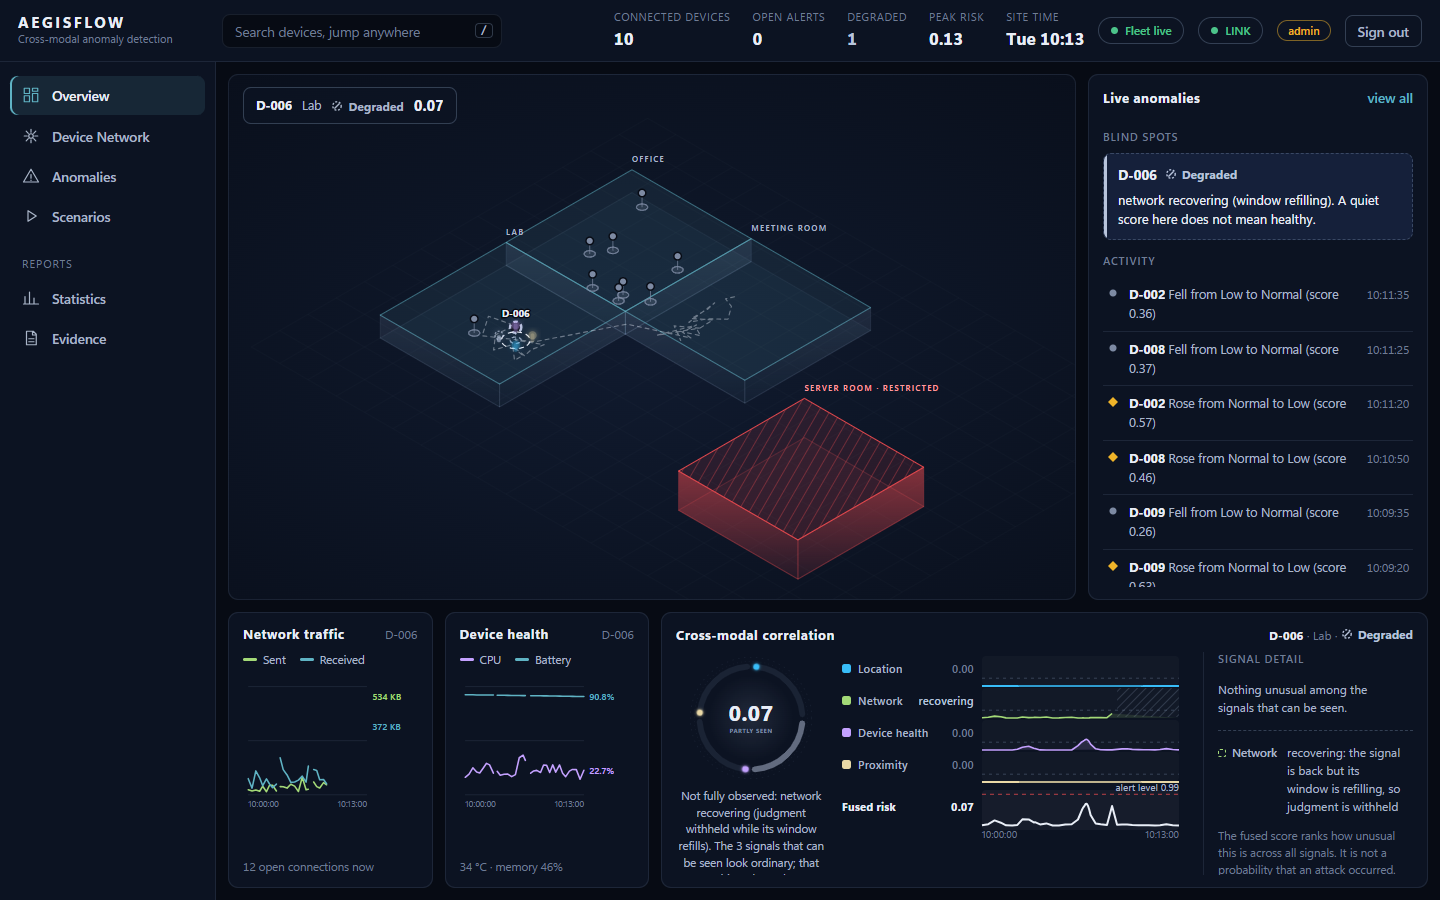
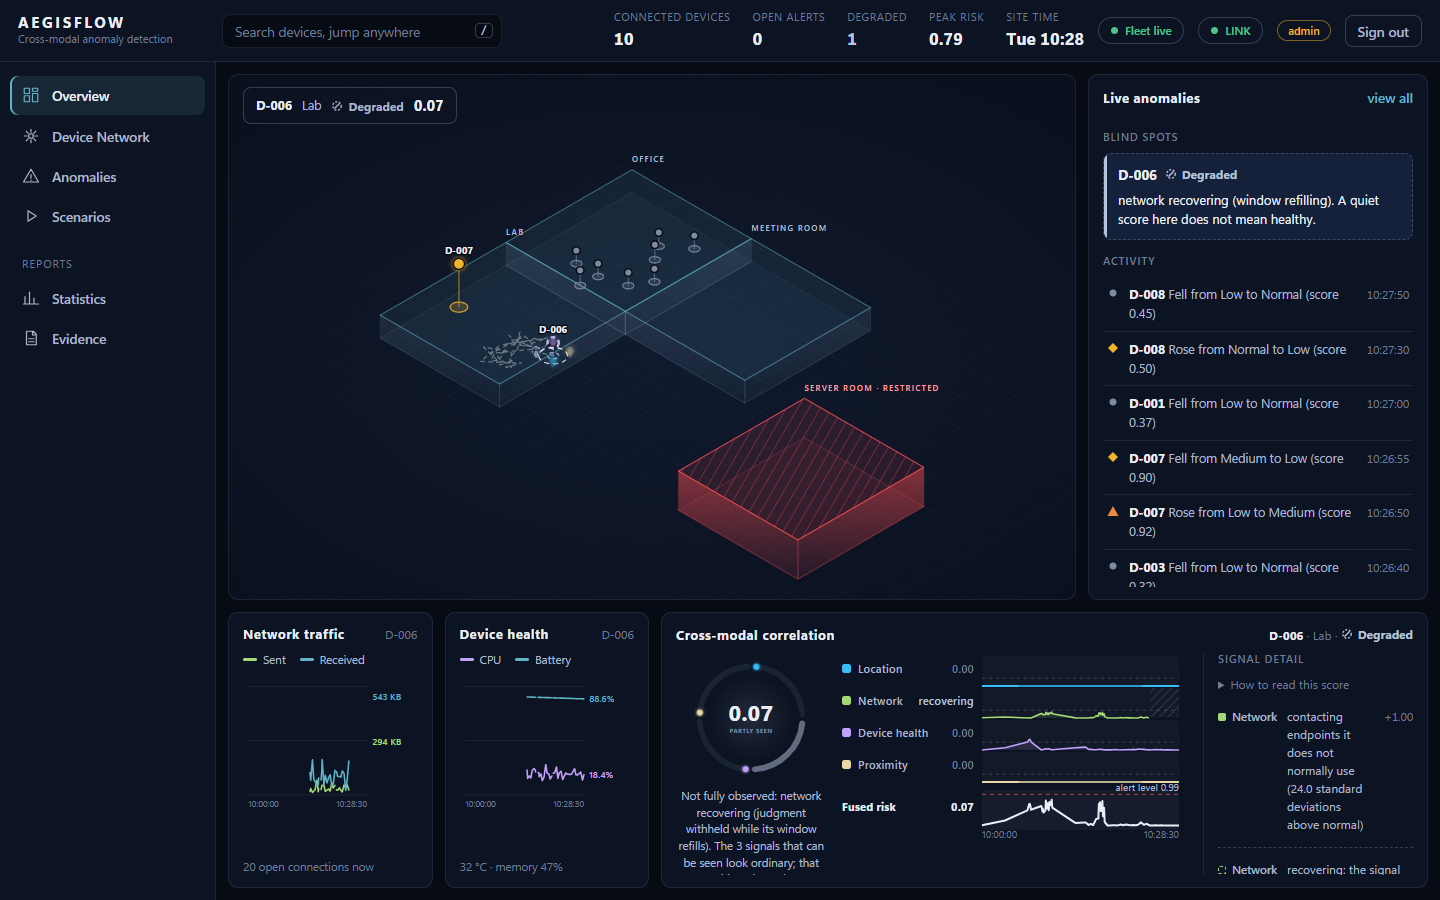
UI clarity: ring and sentence agree with the severity band, a collapsible guide to the score and alert open/close rules, alert detail leads with what it rests on and collapses repeated text; demo story waits for a Normal device; screenshots regenerated

diff --git a/frontend/src/components/Panels.tsx b/frontend/src/components/Panels.tsx
@@ -13,18 +13,42 @@ export function focusDevice(devices: Record<string, Snapshot>, selected: string 
 }
 
 /** Plain-language account of how the signals combine right now. Pure, so it can be tested. */
-export function correlationSentence(snap: Snapshot): string {
+/** How to read the score: what it is, what the labels mean, and when an alert opens and closes. Bands follow the alert thresholds (fully observed device). */
+export function ScoreGuide({ status }: { status?: Status | null }) {
+  const raise = status?.alert_thresholds.raise_at
+  const clear = status?.alert_thresholds.clear_at
+  return (
+    <details className="score-guide">
+      <summary>How to read this score</summary>
+      <ul>
+        <li><b>The score</b> is this device's fused risk right now, recomputed with every 5-second update. Each signal's own score is held and fades with a one-second half-life, so a brief spike is not missed. It is a ranking on a learned, saturating scale, not a probability: 0.75 is not "three quarters of the way" to an alert.</li>
+        {raise !== undefined && clear !== undefined && (
+          <li><b>Labels</b> follow the alert thresholds: Low from {(0.5 * clear).toFixed(2)}, Medium from {clear.toFixed(2)} (the clear level), High from {raise.toFixed(2)} (the alert level). They shift slightly when a device is partly observed.</li>
+        )}
+        <li><b>An alert opens</b> when the fused score reaches the alert level and the device has finished learning its normal. <b>It closes</b> only after the score has stayed below the clear level for 60 seconds, so a dip does not end it and a device can fall from High to Normal while the alert is still open.</li>
+        <li><b>Degraded</b> means some signals cannot be seen; a quiet score then says nothing about them.</li>
+      </ul>
+    </details>
+  )
+}
+
+export function correlationSentence(snap: Snapshot, alertLevel?: number): string {
   const lost = lostSignals(snap)
   const seen = MODALITIES.filter((m) => !lost.includes(m))
   const active = seen.filter((m) => snap.effective[m] >= ACTIVE_LEVEL).sort((a, b) => snap.effective[b] - snap.effective[a])
   const strongest = Math.max(0, ...seen.map((m) => snap.effective[m]))
+  // The fused score is learned and saturating: weak signals that are each below the active level can still add up to a non-normal band.
+  // Say so, instead of calling the device normal while its risk label is not.
+  const band = snap.severity !== 'normal'
+    ? `the fused risk is ${snap.score.toFixed(2)}: ${SEVERITY_LABEL[snap.severity]} band${alertLevel !== undefined ? `, alert level ${alertLevel.toFixed(2)}` : ''}.`
+    : ''
   // A missing signal is never reported as a normal one: say what cannot be seen.
   const blind = lost.length ? `Not fully observed: ${lostText(snap)} ${(snap.recovering ?? []).length === lost.length ? 'recovering (judgment withheld while its window refills)' : 'unavailable'}. ` : ''
   if (seen.length === 0) return 'No signal is available: this device cannot be judged.'
   if (active.length === 0) {
     return lost.length
-      ? `${blind}The ${seen.length} signal${seen.length === 1 ? '' : 's'} that can be seen look ordinary; that says nothing about the ones that cannot.`
-      : 'All four signals are within their normal range.'
+      ? `${blind}The ${seen.length} signal${seen.length === 1 ? '' : 's'} that can be seen look ordinary; that says nothing about the ones that cannot.${band ? ` Together ${band}` : ''}`
+      : band ? `No single signal is active (${ACTIVE_LEVEL.toFixed(2)}+), yet together ${band}` : 'All four signals are within their normal range.'
   }
   const list = active.map((m) => `${MODALITY_LABEL[m]} ${snap.effective[m].toFixed(2)}`).join(', ')
   if (active.length === 1) return `${blind}One signal is active: ${list}.`
@@ -167,7 +191,7 @@ export function CorrelationPanel({ snap, history, alerts, status }: {
       <div className="corr-body">
         <div className="corr-ring">
           <SignalRing effective={snap.effective} score={snap.score} severity={snap.severity} size={132} lost={lostSignals(snap)} />
-          <p className="corr-note">{correlationSentence(snap)}</p>
+          <p className="corr-note">{correlationSentence(snap, status?.alert_thresholds.raise_at)}</p>
         </div>
         <div className="corr-main">
           <CorrelationLanes
@@ -178,6 +202,7 @@ export function CorrelationPanel({ snap, history, alerts, status }: {
         </div>
         <div className="corr-why" aria-label="Why it was flagged">
           <h3>{alert && alert.status !== 'closed' ? 'Why it was flagged' : n >= 2 ? 'Why the risk is rising' : 'Signal detail'}</h3>
+          <ScoreGuide status={status} />
           {alert ? (
             <ul>
               {alert.factors.map((f) => (

diff --git a/frontend/src/__tests__/components.test.tsx b/frontend/src/__tests__/components.test.tsx
@@ -133,7 +133,7 @@ describe('correlation', () => {
     render(<CorrelationPanel snap={s} history={{}} alerts={[alert('a', 'D-003', 'high')]} status={STATUS} />)
     expect(screen.getByText('Why it was flagged')).toBeTruthy()
     expect(screen.getByText('entered a restricted zone')).toBeTruthy()
-    expect(screen.getByText(/not a probability/)).toBeTruthy()
+    expect(screen.getByText(/ranks how unusual this is across all signals\. It is not a probability/)).toBeTruthy()
   })
 
   it('tells the user what to do when nothing is running', () => {
@@ -385,5 +385,48 @@ describe('Evidence page', () => {
     expect(screen.getAllByText(/No difference shown/).length).toBeGreaterThan(0) // P2 and P4 cross zero
     expect(screen.getAllByText(/Worse/).length).toBeGreaterThan(0) // P3: the supervised joint model is better
     expect(screen.getByText(/says nothing about real fleets/)).toBeTruthy()
+  })
+})
+
+describe('reading the score (UX consistency)', () => {
+  const lowButNoSignal = () => snap('D-002', 'low', 0.75, { effective: { ...EFF, network: 0.2 } })
+
+  it('does not call a device normal while its fused risk is in a non-normal band', () => {
+    const s = correlationSentence(lowButNoSignal(), 0.98)
+    expect(s).toMatch(/No single signal is active \(0\.30\+\), yet together the fused risk is 0\.75: Low band, alert level 0\.98\./)
+    expect(s).not.toMatch(/within their normal range/)
+    expect(correlationSentence(snap('D-1', 'normal', 0.1))).toMatch(/within their normal range/) // a genuinely normal device is unchanged
+  })
+
+  it('the ring says what the label says: LOW, not NOMINAL', () => {
+    const { container } = render(<CorrelationPanel snap={lowButNoSignal()} history={{}} alerts={[]} status={STATUS} />)
+    expect(container.textContent).toContain('LOW · COMBINED')
+    expect(container.textContent).not.toContain('NOMINAL')
+    cleanup()
+    const n = render(<CorrelationPanel snap={snap('D-1', 'normal', 0.1)} history={{}} alerts={[]} status={STATUS} />)
+    expect(n.container.textContent).toContain('NOMINAL')
+  })
+
+  it('explains the score: bands from the alert thresholds, how an alert opens and closes', () => {
+    const { container } = render(<CorrelationPanel snap={lowButNoSignal()} history={{}} alerts={[]} status={STATUS} />)
+    const d = container.querySelector('details.score-guide') as HTMLDetailsElement
+    expect(d).toBeTruthy()
+    expect(d.open).toBe(false) // collapsed until asked for
+    const t = d.textContent ?? ''
+    expect(t).toMatch(/Low from 0\.45, Medium from 0\.90 \(the clear level\), High from 0\.98 \(the alert level\)/)
+    expect(t).toMatch(/not a probability/)
+    expect(t).toMatch(/stayed below the clear level for 60 seconds/)
+    expect(t).toMatch(/fall from High to Normal while the alert is still open/)
+  })
+
+  it('the alert detail leads with what the alert rests on and collapses the repeated technical text', () => {
+    const a = alert('a', 'D-001', 'high', { observation: 'The location signal stopped reporting. This alert is based on network, device-health and proximity telemetry only.', explanation: 'HIGH behavioural anomaly on D-001\n  1. spatial (contributes 0.90): entered a restricted zone' })
+    const { container } = render(<Anomalies alerts={[a]} onOpen={() => {}} />)
+    expect(container.querySelector('.obs')?.textContent).toMatch(/What this alert rests on\..*stopped reporting/)
+    const tech = container.querySelector('details.tech') as HTMLDetailsElement
+    expect(tech.open).toBe(false)
+    expect(tech.textContent).toMatch(/Full technical explanation/)
+    expect(tech.querySelector('pre')?.textContent).toMatch(/HIGH behavioural anomaly on D-001/)
+    expect(container.textContent).toMatch(/closes after 60 s below the clear level/)
   })
 })

diff --git a/frontend/src/styles.css b/frontend/src/styles.css
@@ -365,3 +365,15 @@ table.data tr.sel td { background: var(--accent-soft); }
 .sigbars i.lost { background: transparent; border: 1px dashed var(--degraded); opacity: 0.8; }
 .na { color: var(--degraded); }
 .scn.loss { border-style: dashed; }
+
+/* R3/R4 presentation: what an alert rests on, collapsed technical text, and how to read the score */
+.obs { margin-top: 10px; padding: 8px 10px; border-left: 2px solid var(--sig-network); background: color-mix(in srgb, var(--sig-network) 8%, transparent); color: var(--ink2); font-size: 12.5px; line-height: 1.55; }
+.obs b { color: var(--ink); }
+.tech, .score-guide { margin-top: 10px; font-size: 12px; color: var(--ink2); }
+.tech > summary, .score-guide > summary { cursor: pointer; color: var(--muted); font-size: 11.5px; letter-spacing: 0.02em; }
+.tech > summary:hover, .score-guide > summary:hover { color: var(--ink); }
+.tech-text { margin: 8px 0 0; padding: 10px; white-space: pre-wrap; font: 11.5px/1.5 ui-monospace, SFMono-Regular, Menlo, Consolas, monospace; background: var(--panel2, rgba(255,255,255,0.03)); border-radius: 6px; }
+.score-guide ul { margin: 8px 0 0; padding-left: 16px; line-height: 1.55; }
+.score-guide li, .corr-why .score-guide li { display: block; padding: 0; margin-top: 6px; }
+.corr-why .score-guide { margin: 6px 0 10px; }
+.score-guide[open] { max-height: 190px; overflow: auto; }

diff --git a/frontend/src/pages/Anomalies.tsx b/frontend/src/pages/Anomalies.tsx
@@ -51,7 +51,14 @@ export default function Anomalies({ alerts, onOpen }: { alerts: Alert[]; onOpen:
                 </li>
               ))}
             </ol>
-            {cur.explanation && cur.explanation !== 'x' && <p className="note">{cur.explanation}</p>}
+            {cur.observation && <p className="obs"><b>What this alert rests on.</b> {cur.observation}</p>}
+            {cur.explanation && cur.explanation !== 'x' && (
+              <details className="tech">
+                <summary>Full technical explanation</summary>
+                <pre className="tech-text">{cur.explanation}</pre>
+              </details>
+            )}
+            <p className="fine">Opened when the fused score reached the alert level (and the device had finished learning); it closes after 60 s below the clear level. Severity labels follow the score, so a device can read Normal again while its alert is still open.</p>
             <p className="fine">The fused score ranks how unusual this is across all signals. It is not a probability that an attack occurred.</p>
             <div className="btns" style={{ marginTop: 12 }}><button className="btn" onClick={() => onOpen(cur.device_id)}>Show {cur.device_id} on the map</button></div>
           </>

diff --git a/frontend/src/components/SignalRing.tsx b/frontend/src/components/SignalRing.tsx
@@ -55,7 +55,7 @@ export function SignalRing({ effective, score, severity, size = 220, lost = [] }
           )
         })}
         <text className="ring-score" x="100" y="104" textAnchor="middle">{score.toFixed(2)}</text>
-        <text className="ring-sub" x="100" y="122" textAnchor="middle">{locked ? `LOCK · ${n} SIGNALS` : lost.length ? (n ? `${n} SIGNAL${n > 1 ? 'S' : ''} · PARTLY SEEN` : 'PARTLY SEEN') : n ? `${n} SIGNAL${n > 1 ? 'S' : ''}` : 'NOMINAL'}</text>
+        <text className="ring-sub" x="100" y="122" textAnchor="middle">{locked ? `LOCK · ${n} SIGNALS` : lost.length ? (n ? `${n} SIGNAL${n > 1 ? 'S' : ''} · PARTLY SEEN` : 'PARTLY SEEN') : n ? `${n} SIGNAL${n > 1 ? 'S' : ''}` : severity === 'normal' ? 'NOMINAL' : `${SEVERITY_LABEL[severity].toUpperCase()} · COMBINED`}</text>
       </svg>
       <figcaption className="sr">{MODALITIES.map((m) => `${MODALITY_LABEL[m]} ${effective[m].toFixed(2)}`).join(', ')}</figcaption>
     </figure>

diff --git a/scripts/demo_story.py b/scripts/demo_story.py
@@ -65,6 +65,11 @@ with sync_playwright() as p:
     print("1. a normal device: everything it can sense is ordinary")
     select(page, NORMAL)
     time.sleep(2)
+    # The simulated fleet fluctuates: a device can sit in the Low band for a few seconds. Wait for it to be Normal rather than fail on that moment.
+    for _ in range(12):
+        if "Normal" in page.locator(".focus-chip").inner_text():
+            break
+        time.sleep(5)
     assert "Normal" in page.locator(".focus-chip").inner_text(), page.locator(".focus-chip").inner_text()
     shot(page, "01_normal", f"{NORMAL}: all four signals seen, score low. Normal is a statement about four signals, not a guess.")
 
